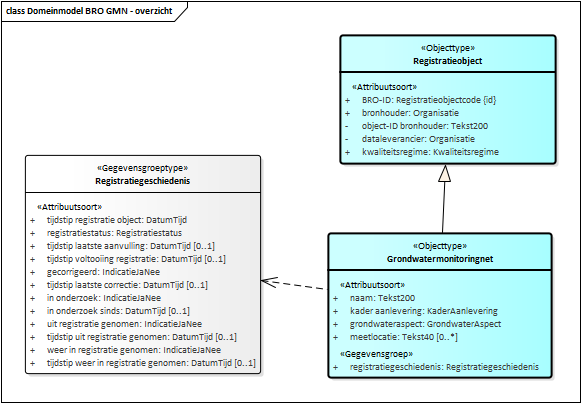
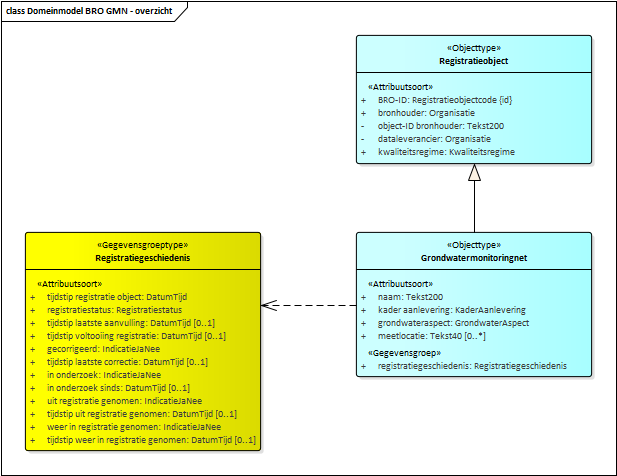
Conceptualmodel-GrondwatermonitoringnetGMN-0.1-0-20180301-20190104-165357

diff --git a/data/GMN-cat.html b/data/GMN-cat.html
@@ -1,16 +1,16 @@
 <h2>Catalogus</h2>
 <p class="note" title="Over deze catalogus">
    Deze catalogus is automatisch samengesteld op basis van het UML model 
-   "Grondwatermonitoringnet (GMN)" door Imvertor 1.50.0 op January 4, 2019 at 14:39:04.
+   "Grondwatermonitoringnet (GMN)" door Imvertor 1.50.0 op January 4, 2019 at 15:53:55.
    <br>
    Wanneer je technische fouten of onvolkomenheden aantreft, geef dit dan door aan <i></i> en geef de code 
-   <i>"Conceptualmodel-GrondwatermonitoringnetGMN-0.1-0-20180301-20190104-153906"</i> door. 
+   <i>"Conceptualmodel-GrondwatermonitoringnetGMN-0.1-0-20180301-20190104-165357"</i> door. 
    
 </p><a class="anchor" name="global_package_Model"></a><section id="global_package_Model">
    <h3>Domein Model</h3>
    <div class="imageinfo overview"><img src="data/Images/EAID_16A72207_068F_4cb7_8848_6A51D3D09C6C.png" usemap="#imagemap-EAID_16A72207_068F_4cb7_8848_6A51D3D09C6C"><map name="imagemap-EAID_16A72207_068F_4cb7_8848_6A51D3D09C6C">
-         <area shape="rect" coords="340,164,556,35" alt="" href="#graph_EAID_AF36F25F_EDC0_4e99_A937_DF9E6889C6F0">
-         <area shape="rect" coords="328,378,552,233" alt="" href="#graph_EAID_A35817A4_9167_4620_BB25_5933C44F44E1"></map><p><b>Domeinmodel BRO GMN - overzicht</b></p>
+         <area shape="rect" coords="356,164,592,35" alt="" href="#graph_EAID_AF36F25F_EDC0_4e99_A937_DF9E6889C6F0">
+         <area shape="rect" coords="356,377,592,232" alt="" href="#graph_EAID_A35817A4_9167_4620_BB25_5933C44F44E1"></map><p><b>Domeinmodel BRO GMN - overzicht</b></p>
    </div>
    <section id="">
       <h4>Objecttypen </h4>
